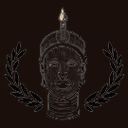
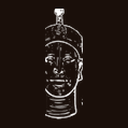
Use the white association mark and the public event email.
The logo is the white line drawing on the dark pages, and the favicon is only the head. The homepage contact is events@yorubaassociationact.org, and the footer credits Promax IT Solutions.

Changed region(s): [[0.0312, 0.0312, 0.9688, 0.9375]]

diff --git a/components/layout/Footer.tsx b/components/layout/Footer.tsx
@@ -86,6 +86,18 @@ export function Footer() {
         <div className="mt-16 flex flex-col gap-5 border-t border-white/[0.07] pt-10 sm:flex-row sm:items-center sm:justify-between">
           <p className="font-sans text-xs text-cream/45">
             © {new Date().getFullYear()} Yoruba Day Canberra · {SITE.presenter}
+            <span className="mx-2" aria-hidden>
+              ·
+            </span>
+            powered by{" "}
+            <a
+              href="https://promaxsolutions.com.au/"
+              target="_blank"
+              rel="noopener noreferrer"
+              className="text-gold-light underline-offset-2 transition-colors hover:text-gold-bright hover:underline"
+            >
+              Promax IT Solutions
+            </a>
           </p>
           <a
             href="#home"

diff --git a/components/brand/AssociationLogo.tsx b/components/brand/AssociationLogo.tsx
@@ -10,14 +10,14 @@ type AssociationLogoProps = {
 const ASSETS = {
   lockup: {
     src: "/brand/yoruba-association-act.png",
-    width: 285,
-    height: 120,
+    width: 276,
+    height: 127,
     alt: "Yoruba Association in the ACT. Awa ọmọ Oduduwa.",
   },
   crest: {
     src: "/brand/association-crest.png",
-    width: 135,
-    height: 135,
+    width: 117,
+    height: 103,
     alt: "Yoruba Association in the ACT",
   },
 } as const;

diff --git a/config/events/yoruba-day-canberra-2026/index.ts b/config/events/yoruba-day-canberra-2026/index.ts
@@ -114,7 +114,7 @@ export const yorubaDayCanberra2026: EventConfig = {
     "Corporate table",
   ],
   contact: {
-    email: "yoruba-events@promaxcare.com.au",
+    email: "events@yorubaassociationact.org",
     phone: null,
   },
   socialLinks: [],
